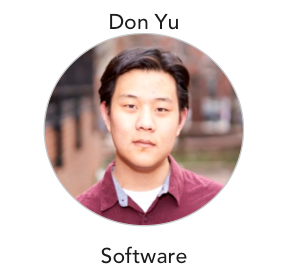
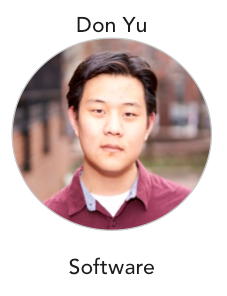
summer team update

diff --git a/pages/index.html b/pages/index.html
@@ -32,7 +32,7 @@
       <nav class="navbar">
         <div class="nav">
               <a class="page-scroll" href="#home_id"><button class="btn">HOME</button></a>
-              <a class="page-scroll" href="#root_id"><button class="btn_root">ROOT</button></a>
+              <a class="page-scroll" href="#root_id"><button class="btn_root">MORE</button></a>
               <a class="page-scroll" href="#why_id"><button class="btn">WHY</button></a>
               <a class="page-scroll" href="#team_id"><button class="btn">TEAM</button></a>
       </div>
@@ -105,14 +105,15 @@
     <br>
     <div class="team_pics">
       <img class="mike" align="middle" src="media/mike.png">
-      <img class="rohun" align="middle" src="media/rohun.png">
-      <img class="joe" align="middle" src="media/joe.png">
+      <img class="strat" align="middle" src="media/strat.png">
       <img class="don" align="middle" src="media/don.png">
-      <img class="drew" align="middle" src="media/drew.png">
+      <br>
+      <img class="vincent" align="middle" src="media/vincent.png">
+      <img class="jack" align="middle" src="media/jack.png">
     </div>
     <div class="advisors">
       <br>
-    Penn Engineering and Wharton students graduating in 2018––
+    Penn Engineering, Princeton Engineering, and Wharton students––
     <br> 
     Dissatisfied with the sustainability crisis and driven to fix it.
     <br>
@@ -121,9 +122,27 @@
     <div class="supporters_large">Advisors</div>
     <br>
     <div class="advisors">
+      Laurie Actman, COO at Penn Center for Innovatiom
+      <br>
+      Anne Stamer, Head of Weiss Tech House
+      <br>
       Rahul Mangharam, Professor of Electrical Engineering
       <br>
       Guthrie Gintzler, Founder of Weiss Labs Incubator
+      <br>
+      <br>
+      Student Advisors:
+      <br>
+      <br>
+      Scott Stinner, PhD Electrical Engineering
+      <br>
+      Kevin Zhang, BSE Electrical Engineering
+      <br>
+      Rohun Patel, BSE Electrical Engineering / BS Economics
+      <br>
+      Joe Farned, BA Physics / BS Economics
+      <br>
+      Drew Stone, BA Math / BSE Networks and Social Systems  
       <br>
       <br>
     </div>

diff --git a/pages/styles.css b/pages/styles.css
@@ -169,19 +169,19 @@ body {
 }
 
 .mike {
-	height: 350;
+	height: 370;
 }
-.joe {
+.strat {
+	height: 370;
+}
+.don {
+	height: 370;
+}
+.jack {
 	height: 370;
 }
 .rohun {
-	height: 350;
-}
-.don {
-	height: 350;
-}
-.drew {
-	height: 375;
+	height: 370;
 }
 
 .team_school{
